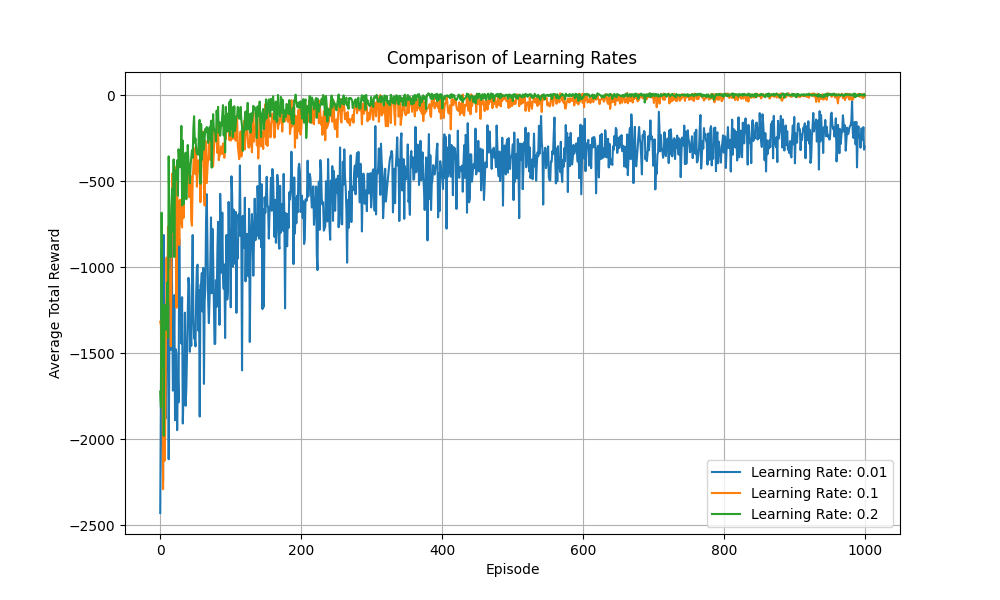
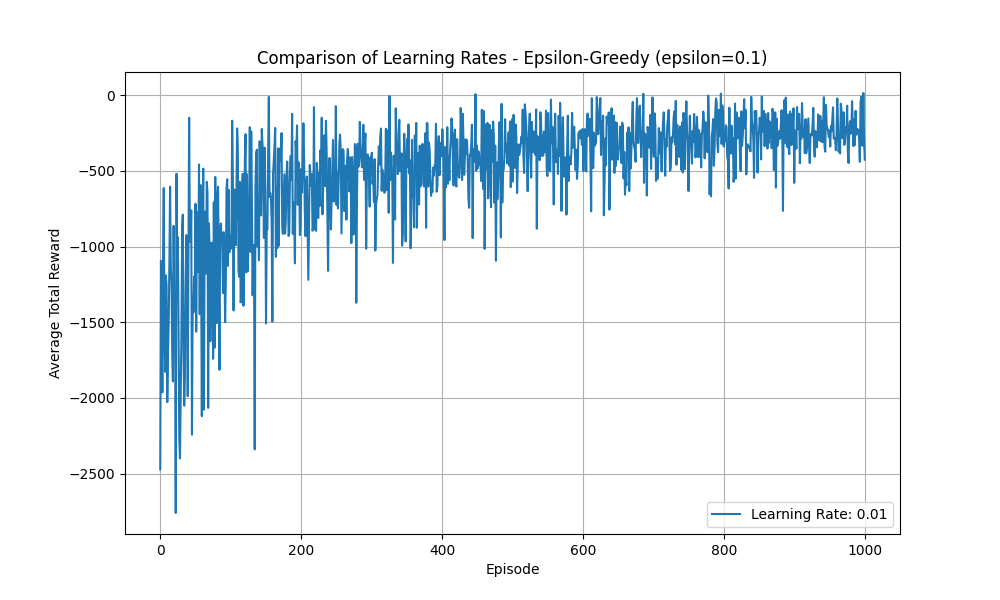
Added __str__ to strategies

diff --git a/main.py b/main.py
@@ -36,10 +36,11 @@ def test_learning_rates(episodes, trials, learning_rates, strategy):
 
     plt.xlabel("Episode")
     plt.ylabel("Average Total Reward")
-    plt.title("Comparison of Learning Rates")
+    plt.title("Comparison of Learning Rates - " + str(strategy))
     plt.legend()
     plt.grid()
-    plt.savefig('learning_rate.png')
+    plt.savefig(str(strategy).replace(" ", "_").lower() + '_learning_rate.png')
+    # plt.savefig('learning_rate.png')
 
 class GymEnvironment(Environment):
     def __init__(self, env_name):
@@ -55,12 +56,13 @@ class GymEnvironment(Environment):
         next_state, reward, done,_ ,_ = self.env.step(action)
         return int(next_state), int(reward), int(done)
 
+if __name__ == "__main__":
+    # env = GymEnvironment('Taxi-v3')
+    # agent_params = AgentParams(env, 0.1, 0.99)
+    # EPISODES = 1000
 
-# env = GymEnvironment('Taxi-v3')
-# agent_params = AgentParams(env, 0.1, 0.99)
-# EPISODES = 1000
+    # agent = QLearningAgent(agent_params)
+    # result = agent.train(EPISODES, EpsilonGreedyStrategy(0.1))
 
-# agent = QLearningAgent(agent_params)
-# result = agent.train(EPISODES, EpsilonGreedyStrategy(0.1))
-
-test_learning_rates(1000, 3, [0.01, 0.1, 0.2], EpsilonGreedyStrategy(0.1))
+    # test_learning_rates(1000, 3, [0.01, 0.1, 0.2], EpsilonGreedyStrategy(0.1))
+    test_learning_rates(1000, 1, [0.01], EpsilonGreedyStrategy(0.1))

diff --git a/QLearningAgent.py b/QLearningAgent.py
@@ -19,6 +19,9 @@ class EpsilonGreedyStrategy(SelectStrategy):
             return random.randint(0, actions_num - 1)
         else:
             return np.argmax(q_table[state])
+    
+    def __str__(self):
+        return 'Epsilon Greedy Strategy'
 
 class BoltzmannStrategy(SelectStrategy):
     def __init__(self, temperature):
@@ -31,6 +34,9 @@ class BoltzmannStrategy(SelectStrategy):
         action = np.random.choice(actions_num, p=probabilities)
         return action
     
+    def __str__(self):
+        return 'Bolztzmann Strategy'
+    
 class CountBasedStrategy(SelectStrategy):
     def __init__(self, actions_num, states_num):
         self.visit_count = np.zeros(states_num, actions_num)
@@ -41,6 +47,9 @@ class CountBasedStrategy(SelectStrategy):
         action = np.argmax(adjusted_q_values)
         self.visit_count[state, action] += 1
         return action
+
+    def __str__(self):
+        return 'Count Based Strategy'
     
 @dataclass
 class AgentParams:
